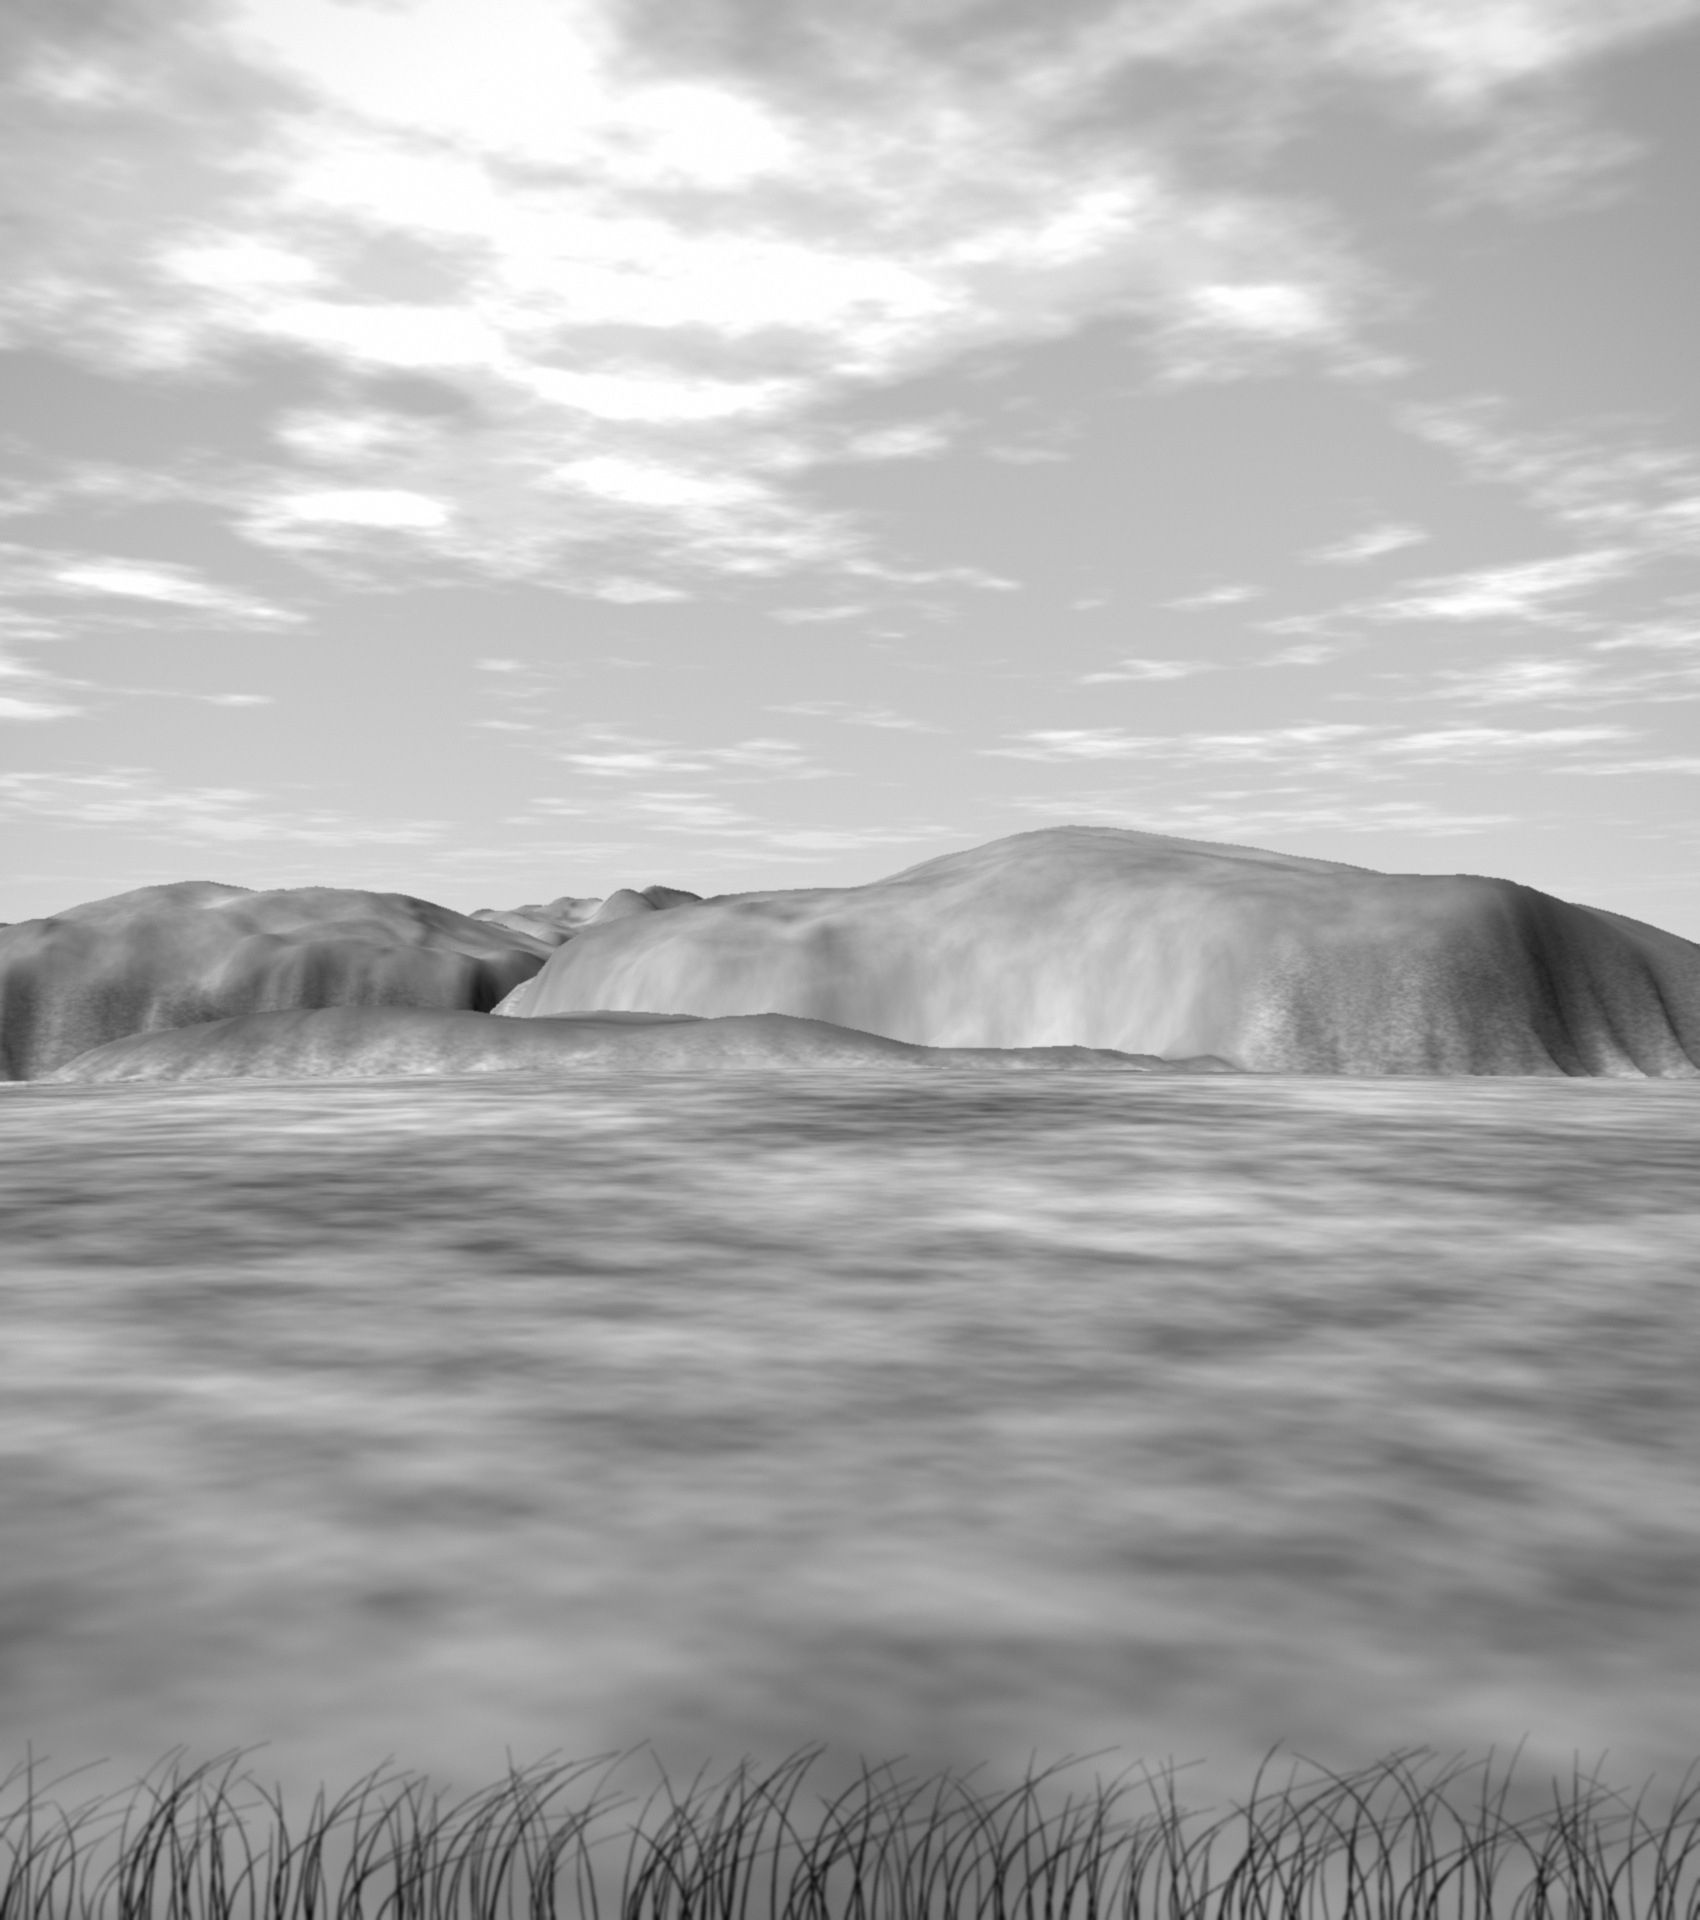
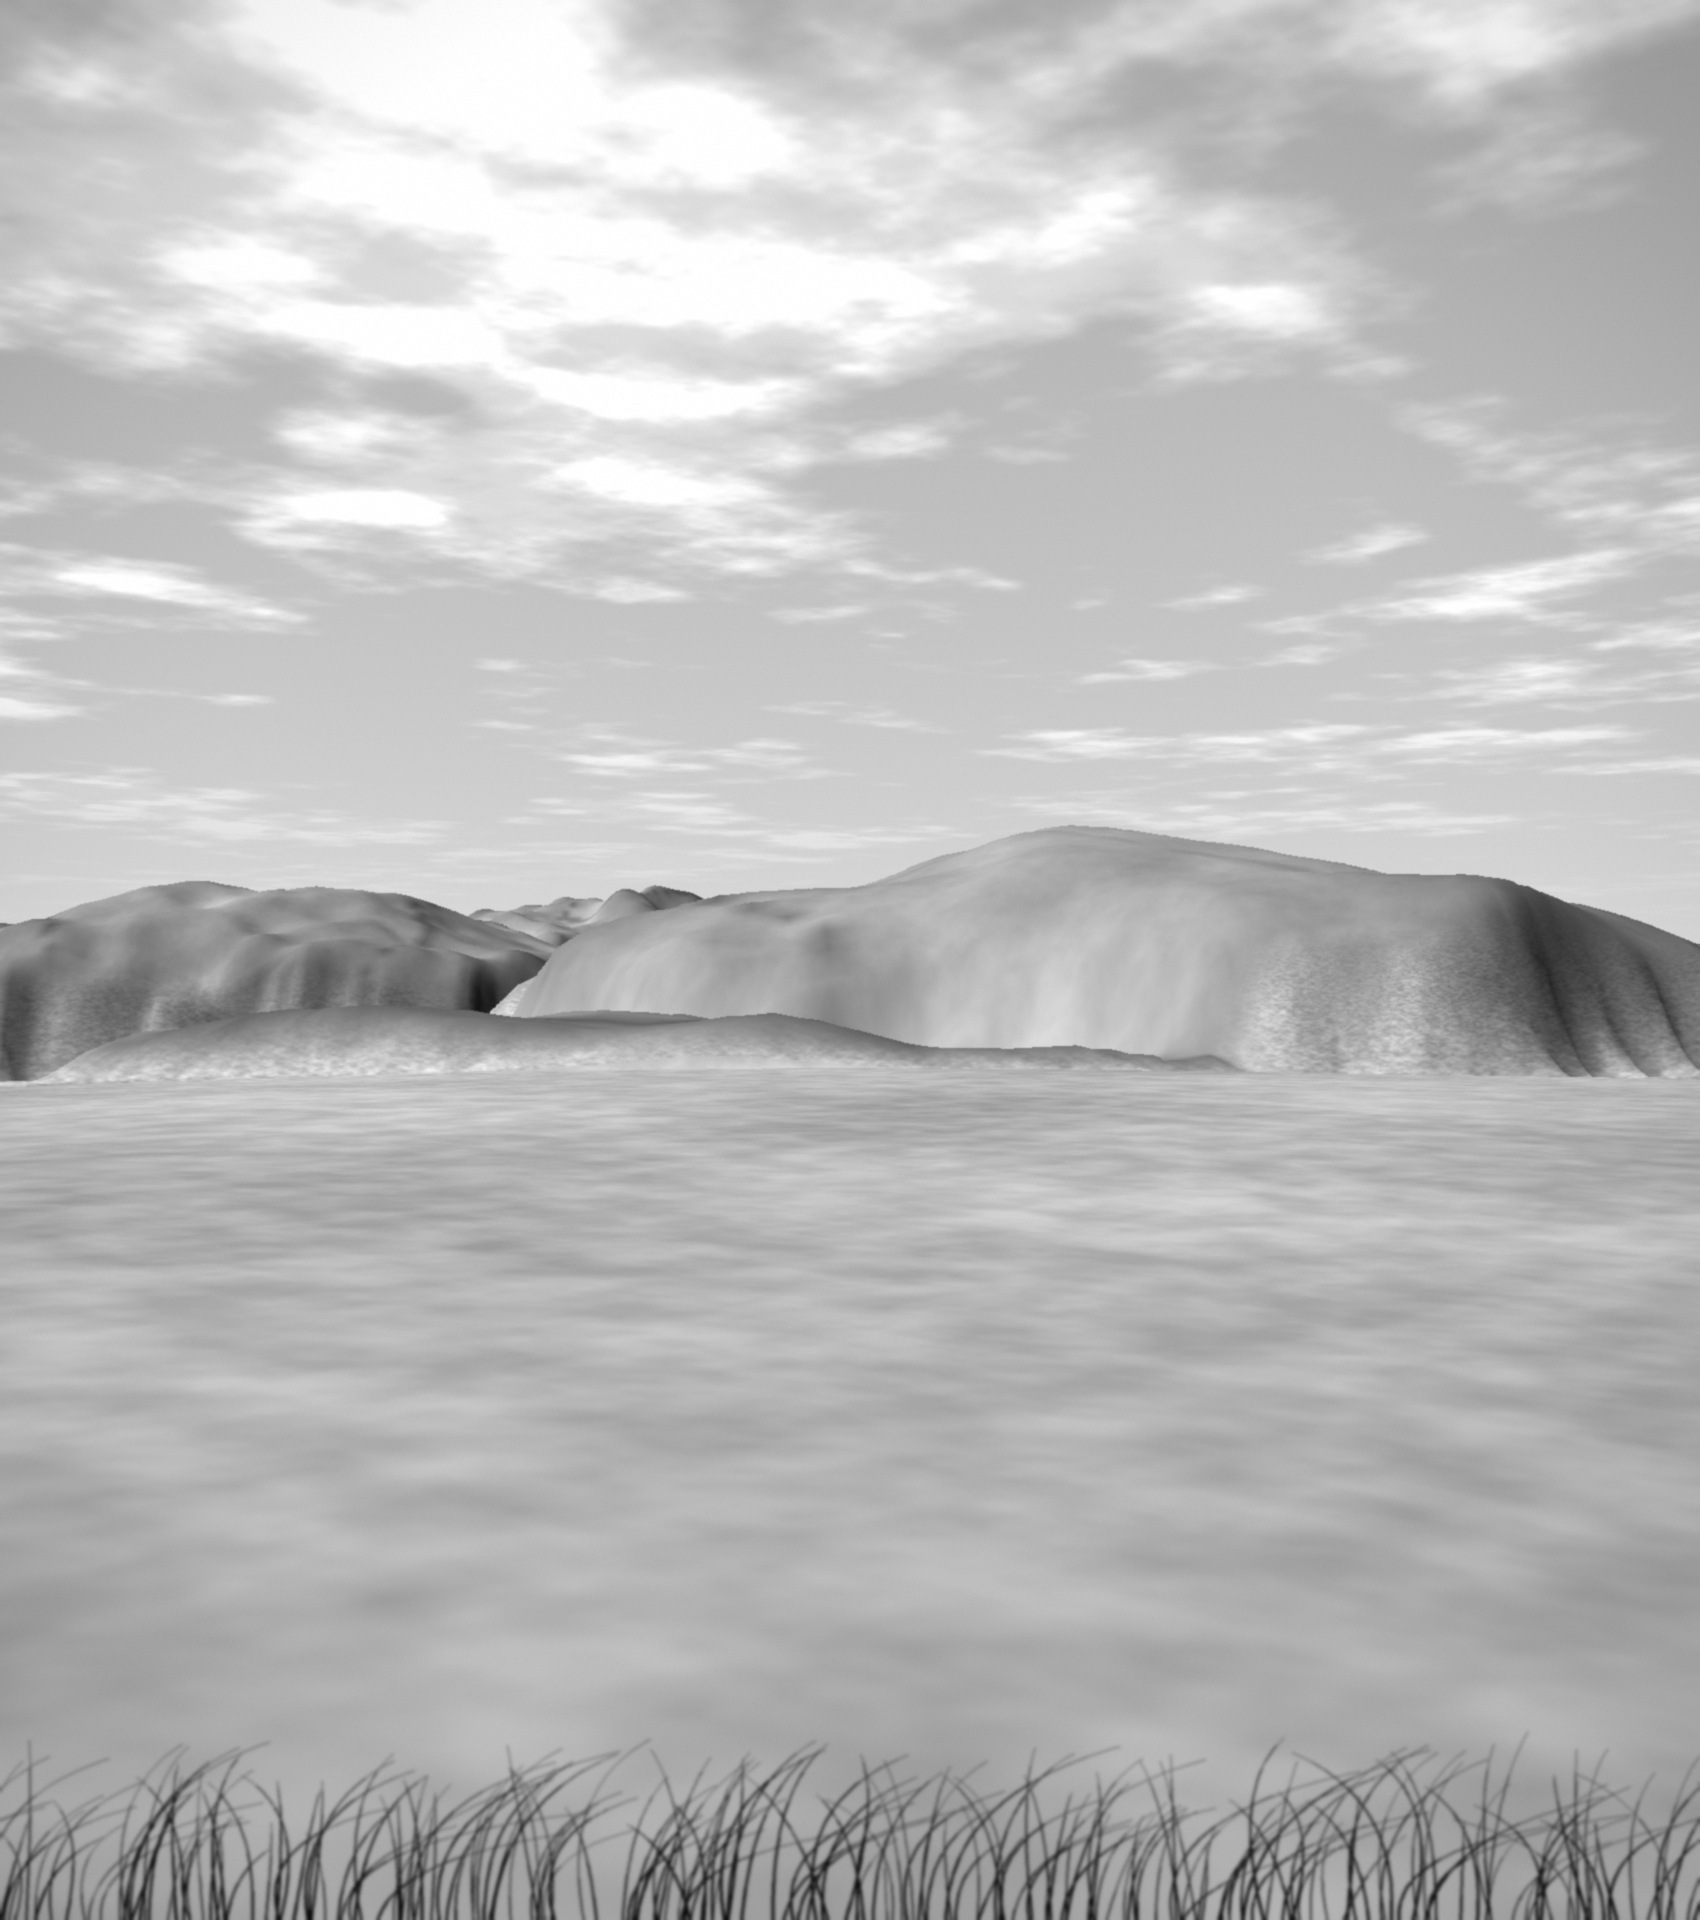
revelado-cancion: construcción, crítica y corrección (canción entera, placas propias)
Claude-Session: https://claude.ai/code/session_01GCANSbuav8x3sp8wbKz7Zv

Changed region(s): [[0.0, 0.5, 1.0, 1.0], [0.9976, 0.5312, 1.0, 0.5625]]

diff --git a/versiones/revelado-cancion/src/config.js b/versiones/revelado-cancion/src/config.js
@@ -29,12 +29,12 @@ window.REEL_CONFIG = {
     aerea: { w: 988, h: 717, up: 2, preblur: 0.5, black: 0.0, white: 0.94, curve: [[0, 0.02], [0.06, 0.10], [0.2, 0.26], [0.4, 0.48], [0.6, 0.66], [0.8, 0.83], [0.92, 0.91], [1.0, 0.95]] },
     canal: { dist: false, w: 1415, h: 1815, up: 1, black: 0.14, white: 0.85 },
     relieve: { dist: false, w: 2000, h: 932, up: 1, preblur: 1.4, black: 0.05, white: 0.68, chan: [0.5, 0.42, 0.08], curve: [[0, 0.02], [0.08, 0.10], [0.3, 0.30], [0.5, 0.52], [0.75, 0.78], [0.9, 0.88], [1.0, 0.93]],
-      erase: [{ pts: [[1706, 0], [1699, 16], [1685, 29], [1669, 50], [1654, 74], [1641, 98], [1620, 112], [1595, 121], [1569, 125], [1543, 128], [1518, 127], [1492, 129], [1466, 127], [1439, 127], [1412, 122], [1384, 120], [1361, 127], [1336, 142], [1318, 165], [1300, 186], [1287, 208], [1277, 232], [1264, 256], [1262, 285], [1261, 314], [1258, 342], [1249, 368], [1230, 390], [1210, 411], [1191, 432], [1179, 455], [1171, 482], [1163, 508], [1152, 533], [1142, 558], [1126, 579], [1108, 599], [1091, 619], [1074, 639], [1058, 660], [1042, 681], [1026, 704], [1012, 727], [1000, 751], [988, 776], [978, 800], [969, 825], [961, 849], [953, 872], [946, 894], [941, 908], [936, 931]], hw: 8, fe: 10 }] },
+      erase: [{ pts: [[1722, 0], [1719, 5], [1712, 10], [1699, 18], [1684, 28], [1672, 42], [1664, 59], [1656, 78], [1646, 94], [1634, 110], [1621, 125], [1607, 139], [1593, 153], [1579, 165], [1566, 178], [1552, 191], [1538, 203], [1522, 213], [1504, 223], [1486, 229], [1467, 231], [1448, 229], [1429, 229], [1411, 231], [1393, 235], [1375, 238], [1358, 236], [1342, 236], [1327, 242], [1317, 253], [1312, 269], [1308, 288], [1300, 306], [1287, 321], [1275, 336], [1264, 351], [1256, 366], [1251, 382], [1249, 398], [1249, 414], [1249, 432], [1244, 450], [1233, 466], [1220, 481], [1208, 496], [1196, 510], [1184, 523], [1171, 536], [1157, 548], [1144, 561], [1132, 574], [1119, 588], [1107, 602], [1095, 615], [1083, 629], [1072, 644], [1060, 659], [1050, 675], [1041, 691], [1032, 704], [1023, 717], [1013, 732], [1003, 748], [994, 766], [986, 782], [979, 799], [973, 816], [966, 833], [960, 851], [955, 869], [949, 888], [942, 906], [938, 919], [936, 931]], hw: 7, fe: 9 }] },
     abra: { dist: false, w: 1563, h: 1013, up: 1, black: 0.05, white: 0.82 },
     yerbal: { dist: false, w: 1010, h: 720, up: 2, black: 0.2, white: 0.9, chan: [0.5, 0.42, 0.08] },
     rompiente: { w: 1876, h: 1012, up: 1, black: 0.10, white: 0.78 },
     rinconada: { w: 3030, h: 1710, up: 1, black: 0.20, white: 0.86, patches: [[2388, 1222, 80, 108, 12, 2290, 1222], [2394, 1318, 70, 44, 12, 2474, 1326], [2522, 1240, 60, 104, 12, 2612, 1240], [2430, 1190, 40, 50, 10, 2330, 1190]] },
-    gruta: { w: 3015, h: 1730, up: 1, black: 0.13, white: 0.86, dscale: 0.5, landSeed: 'sand', soften: [[1600, 790, 1830, 1000, 10, 40]], curve: [[0, 0.0], [0.05, 0.035], [0.30, 0.36], [0.50, 0.53], [0.75, 0.70], [0.9, 0.77], [1.0, 0.80]] },
+    gruta: { w: 3015, h: 1730, up: 1, black: 0.13, white: 0.86, dscale: 0.5, landSeed: 'sand', soften: [[1640, 800, 1800, 960, 4, 50]], curve: [[0, 0.0], [0.05, 0.035], [0.30, 0.36], [0.50, 0.53], [0.75, 0.70], [0.9, 0.77], [1.0, 0.80]] },
     estratos: { dist: false, w: 1552, h: 1004, up: 1, black: 0.09, white: 0.76 },
     playa: { dist: false, w: 1786, h: 1815, up: 1, black: 0.12, white: 0.83 },
     quebrada: { dist: false, w: 1500, h: 1920, up: 1, black: 0.09, white: 0.93, maskFile: 'plates/quebrada_mask.png' },
@@ -74,16 +74,16 @@ window.REEL_CONFIG = {
     { id: 'rec1', t0: 40.0, t1: 50.42, print: 'relieve', lyric: 'Camino de mi esteña…', enter: { dur: 0.9, dirDeg: -8, bow: 90, noiseAmp: 60, seed: 5.3, figFront: 1, tau0: 0.45, induction: 0.03 } },
     { id: 'rec2', t0: 50.42, t1: 60.86, print: 'abra', lyric: 'Y allá del Yaguarón…', enter: { dur: 1.3, dirDeg: -6, bow: 90, noiseAmp: 60, seed: 9.1, figFront: 1, tau0: 0.45, induction: 0.03 } },
     { id: 'resp', t0: 60.86, t1: 62.52, print: 'abra', lyric: '(respiro de guitarra: enjuague)' },
-    { id: 'e2a', t0: 62.52, t1: 69.9, print: 'quebrada', lyric: '[?] y piedra arisca…', enter: { dur: 1.0, dirDeg: 186, bow: 90, noiseAmp: 60, seed: 3.3, figFront: 1, tau0: 0.45, induction: 0.03 } },
+    { id: 'e2a', t0: 62.52, t1: 69.9, print: 'quebrada', lyric: '[?] y piedra arisca…', enter: { dur: 1.0, dirDeg: 4, bow: 90, noiseAmp: 60, seed: 3.3, figFront: 1, tau0: 0.45, induction: 0.03 } },
     { id: 'e2b', t0: 69.9, t1: 72.8, print: 'tacuari', lyric: 'Tacuarí de los quileros…', enter: { dur: 0.9, dirDeg: 8, bow: 80, noiseAmp: 60, seed: 6.1, figFront: 1, tau0: 0.45, induction: 0.03 } },
     { id: 'e2c', t0: 72.8, t1: 75.64, print: 'cerrito', lyric: '…y el Guazunambí…', enter: { dur: 0.9, dirDeg: -170, bow: 80, noiseAmp: 60, seed: 2.2, figFront: 1, tau0: 0.45, induction: 0.03 } },
     { id: 'e2d', t0: 75.64, t1: 83.6, print: 'yerbal', lyric: 'Va en las sierras…', enter: { dur: 1.0, dirDeg: 12, bow: 90, noiseAmp: 60, seed: 4.4, figFront: 1, tau0: 0.45, induction: 0.03 } },
     { id: 'e2e', t0: 83.6, t1: 90.28, print: 'rompiente', lyric: 'Sierra que se vuelve…', enter: { dur: 1.1, dirDeg: 6, bow: 80, noiseAmp: 60, seed: 7.7, figFront: 1, tau0: 0.45, induction: 0.03 } },
     { id: 'inter', t0: 90.28, t1: 110.2, print: 'portezuelo', lyric: '(interludio de guitarra)', enter: { dur: 1.2, dirDeg: 184, bow: 90, noiseAmp: 60, seed: 2.9, figFront: 1, tau0: 0.45, induction: 0.03 } },
     { id: 'e3a', t0: 110.2, t1: 117.5, print: 'carape', lyric: 'Carapé…', enter: { dur: 1.2, dirDeg: -12, bow: 100, noiseAmp: 60, seed: 5.9, figFront: 1, tau0: 0.45, induction: 0.03 } },
-    { id: 'e3b', t0: 117.5, t1: 120.6, print: 'estratos', lyric: 'Cerrazón…', enter: { dur: 1.1, dirDeg: 184, bow: 90, noiseAmp: 60, seed: 4.1, figFront: 1, tau0: 0.45, induction: 0.03 } },
+    { id: 'e3b', t0: 117.5, t1: 120.6, print: 'estratos', lyric: 'Cerrazón…', enter: { dur: 1.1, dirDeg: -4, bow: 90, noiseAmp: 60, seed: 4.1, figFront: 1, tau0: 0.45, induction: 0.03 } },
     { id: 'e3c', t0: 120.6, t1: 124.5, print: 'gruta', lyric: '…que el indio llamó…', enter: { dur: 1.0, dirDeg: -4, bow: 90, noiseAmp: 60, seed: 3.7, figFront: 1, tau0: 0.45, induction: 0.03 } },
-    { id: 'e4', t0: 124.5, t1: 138.84, print: 'playa', lyric: 'Dice que se echó…', enter: { dur: 1.4, dirDeg: -4, bow: 80, noiseAmp: 60, seed: 8.3, figFront: 1, tau0: 0.45, induction: 0.03 } },
+    { id: 'e4', t0: 124.5, t1: 138.84, print: 'playa', lyric: 'Dice que se echó…', enter: { dur: 1.4, dirDeg: 184, bow: 80, noiseAmp: 60, seed: 8.3, figFront: 1, tau0: 0.45, induction: 0.03 } },
     { id: 'coda', t0: 138.84, t1: 155.5, print: 'playa', lyric: 'Sierra deshecha… (coda)' },
     { id: 'fin', t0: 155.5, t1: 162.8, print: 'playa', lyric: '(acorde final: cierre sostenido)' },
   ],

diff --git a/versiones/revelado-cancion/src/main.js b/versiones/revelado-cancion/src/main.js
@@ -187,6 +187,7 @@ window.createReel = async function (canvas, cfg) {
     for (const [x, y] of [[0, 0], [1080, 0], [0, 1920], [1080, 1920]]) { const pr = (x - 540) * d[0] + (y - 1920) * d[1], pp = (x - 540) * -d[1] + (y - 1920) * d[0]; pmin = Math.min(pmin, pr); pmax = Math.max(pmax, pr); perpMax = Math.max(perpMax, Math.abs(pp)); }
     const R = { print: s.print, sec: s, type: e.type || 'menisco', a, d, pmin, pmax, bow: e.bow || 80, noiseAmp: e.noiseAmp || 60, seed: e.seed || 1, figFront: e.figFront || 0, tau0: e.tau0 || 0.45, induction: e.induction != null ? e.induction : 0.03, wet: e.wet || 0, figTau: e.figTau || 0.3, dur: e.dur || 1.2 };
     const nmax = 1.25 * R.noiseAmp + R.bow * Math.pow(perpMax / 540, 2);
+    R.nmax = nmax;
     if (R.type === 'lab') {
       R.t0 = s.t0 - R.dur / 2; R.delay = R.dur * 0.5; R.s0 = 0; R.v = 1; R.tLast = R.t0 + R.delay + 0.5; R.tBleached = R.t0 + R.dur + 0.05;
     } else if (e.s0 != null) { // primer menisco: ya está cruzando en el cuadro 0
@@ -442,6 +443,23 @@ window.createReel = async function (canvas, cfg) {
     return [0, 0, 0, 1];
   };
   const noteCfg = cfg.noteStyle;
+  // durante un relevo con frente, cada pase de copia sólo necesita su lado del frente: se acota con tijera (la mitad del cuadro en promedio)
+  const relayRect = (R, t, old) => {
+    const s = R.s0 + R.v * (t - R.t0), m = R.nmax + 100, c = old ? s - m : s + m, d0 = R.d[0], d1 = R.d[1];
+    const poly = [[0, 0], [1080, 0], [1080, 1920], [0, 1920]], out = [];
+    const f = (p) => ((p[0] - 540) * d0 + (p[1] - 1920) * d1 - c) * (old ? 1 : -1);   // >= 0: dentro
+    for (let i = 0; i < 4; i++) {
+      const a = poly[i], b = poly[(i + 1) % 4], fa = f(a), fb = f(b);
+      if (fa >= 0) out.push(a);
+      if ((fa >= 0) !== (fb >= 0)) { const u = fa / (fa - fb); out.push([a[0] + (b[0] - a[0]) * u, a[1] + (b[1] - a[1]) * u]); }
+    }
+    if (!out.length) return null;
+    let x0 = 1e9, y0 = 1e9, x1 = -1e9, y1 = -1e9;
+    for (const [x, y] of out) { x0 = Math.min(x0, x); y0 = Math.min(y0, y); x1 = Math.max(x1, x); y1 = Math.max(y1, y); }
+    x0 = Math.max(0, Math.floor(x0) - 2); y0 = Math.max(0, Math.floor(y0) - 2); x1 = Math.min(1080, Math.ceil(x1) + 2); y1 = Math.min(1920, Math.ceil(y1) + 2);
+    return x1 > x0 && y1 > y0 ? [x0, y0, x1 - x0, y1 - y0] : null;
+  };
+  const withRect = (r, fn) => { if (r) { G.enable(G.SCISSOR_TEST); G.scissor(r[0], cfg.height - r[1] - r[3], r[2], r[3]); } fn(); if (r) G.disable(G.SCISSOR_TEST); };
   // plan de un cuadro: relevo vigente, copia nueva y (durante el relevo) la vieja, y qué variantes de programa hacen falta
   const planAt = (t) => {
     let k = 0; for (let i = 0; i < relays.length; i++) if (t >= relays[i].t0) k = i;
@@ -476,9 +494,10 @@ window.createReel = async function (canvas, cfg) {
     const prof = window.__prof ? [performance.now()] : null;
     if (front) { frontProg = frontProg || gl.program(RV.frontSource()); gl.draw(frontProg, common, fboFront); common.uFront = fboFront.tex; }
     let hasFA = null;
-    if (Aold) { gl.draw(progFor(Aold, true), { ...common, ...printU(Aold, t, true), uIsOld: 1, uDualPass: 1 }, fboA); hasFA = figPass(Aold, t, true, common, 1, true); }
+    const sc = Aold && menVisible(R, t) && R.type === 'menisco';
+    if (Aold) { withRect(sc ? relayRect(R, t, true) : null, () => gl.draw(progFor(Aold, true), { ...common, ...printU(Aold, t, true), uIsOld: 1, uDualPass: 1 }, fboA)); hasFA = figPass(Aold, t, true, common, 1, true); }
     if (prof) { sync(true); prof.push(performance.now()); }
-    gl.draw(progFor(B, front), { ...common, ...printU(B, t, false), uIsOld: 0, uDualPass: Aold ? 1 : 0 }, fboB);
+    withRect(sc ? relayRect(R, t, false) : null, () => gl.draw(progFor(B, front), { ...common, ...printU(B, t, false), uIsOld: 0, uDualPass: Aold ? 1 : 0 }, fboB));
     const hasFB = figPass(B, t, false, common, Aold ? 1 : 0, front);
     if (prof) { sync(true); prof.push(performance.now()); }
     const sink = isLab ? PBS.smooth((t - R.t0) / (R.dur * 0.5)) : 0;

diff --git a/versiones/revelado-cancion/src/shaders.js b/versiones/revelado-cancion/src/shaders.js
@@ -383,7 +383,7 @@ void main(){
     Ll *= mix(1., lightMul, 1. - 0.6*skyM);
     // el cielo no queda en papel blanco: bruma y celajes suaves que bajan un poco las luces
     float hz2 = texture(uNoise, vec2(q.x/900. + uS*0.004, q.y/240.)/4.).b;
-    Ll *= 1. - skyM*live*(0.10 + 0.10*smoothstep(0.3, 0.8, hz2) + 0.08*smoothstep(430., 0., q.y));
+    Ll *= 1. - skyM*live*(0.20 + 0.14*smoothstep(0.3, 0.8, hz2) + 0.20*(1. - smoothstep(0., 430., q.y)));
   }`, post: `` };
 
   // 7 · Portezuelo (rinconada): mar con ondas, resaca sobre la arena, luz que camina (como en Revelado)

diff --git a/versiones/revelado-cancion/plates/pl_carape.py b/versiones/revelado-cancion/plates/pl_carape.py
@@ -44,7 +44,7 @@ def scene():
     # albedo: granito claro con manchas y fisuras; pasto medio
     crack = np.abs(fbm(N, N, 26, 3, 74) - 0.5) < 0.018
     gran = 0.41 + 0.14 * (fbm(N, N, 7, 4, 75) - 0.5) - 0.10 * crack - 0.08 * sm(0.62, 0.8, fbm(N, N, 16, 3, 76))
-    grass = 0.40 + 0.07 * fbm(N, N, 60, 4, 77) + 0.03 * fbm(N, N, 5, 3, 78)
+    grass = 0.46 + 0.06 * fbm(N, N, 60, 4, 77) + 0.03 * fbm(N, N, 5, 3, 78)
     alb = grass * (1 - rock) + gran * rock
     ao = np.clip((gblur(h, 3) - h) / 4.0 + 0.9, 0.4, 1.05)
     veg = np.clip((1 - rock) * 0.8 + 0.1, 0, 1)
@@ -52,7 +52,7 @@ def scene():
 
 PARAMS = dict(sun=(-0.55, -0.35, 0.62), sunI=0.95, amb=0.44, gain=1.35, shadows=True, shadow_steps=80, shadow_tmax=500., shadow_bias=0.35, fog=3500., haze=0.80,
               sky_top=0.55, sky_hor=0.88, cloud_h=2200., cloud_amp=0.5, cloud_cover=0.42, cloud_scale=2800.,
-              m1=(21, 40, 0.28), m2=(22, 12, 0.06), micro_fade=260., micro_alb=0.5, micro_base=0.25, micro_n=0.15)
+              m1=(21, 40, 0.28), m2=(22, 12, 0.06), micro_fade=260., micro_alb=0.15, micro_base=0.10, micro_n=0.0)
 
 if __name__ == '__main__':
     quick = len(sys.argv) > 1 and sys.argv[1] == 'q'
